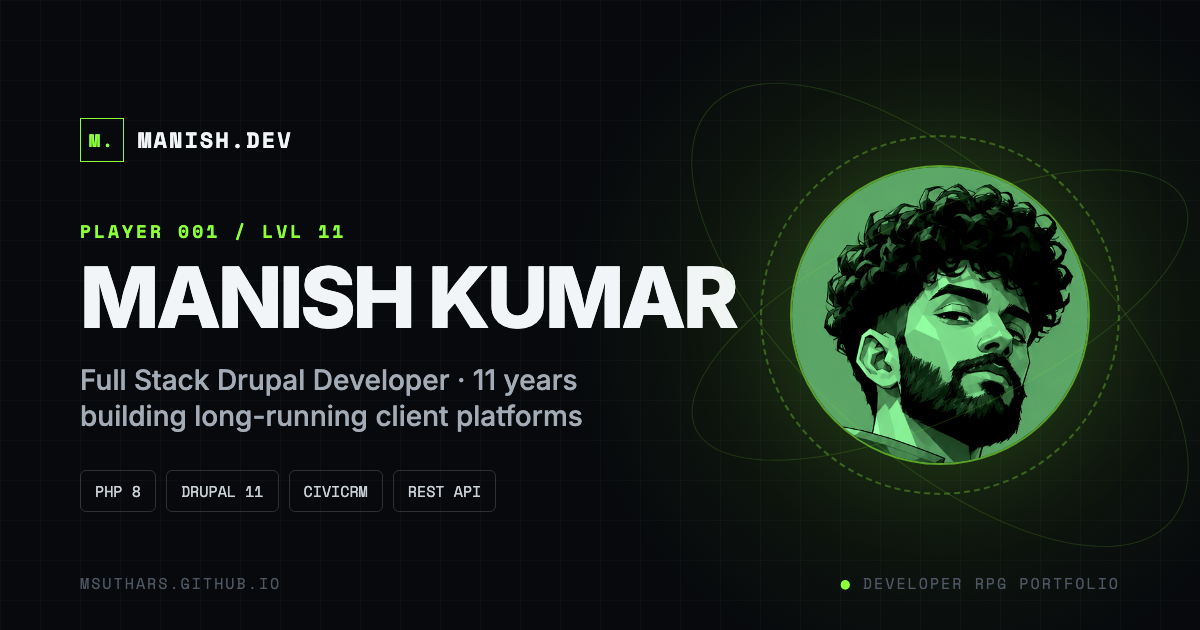
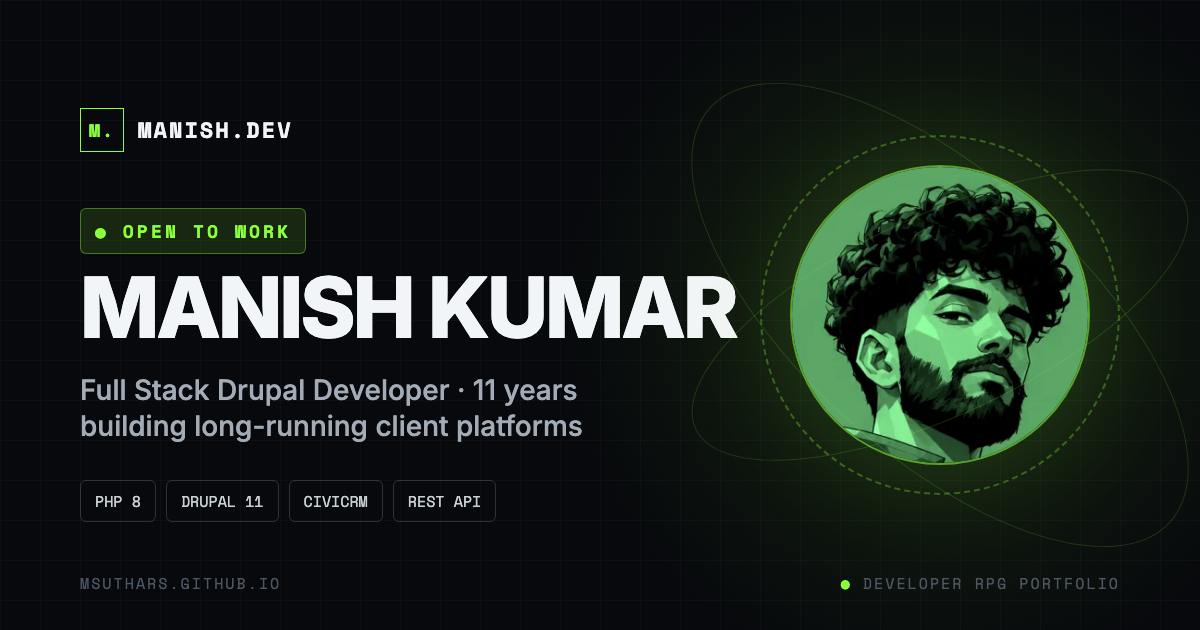
Updated the portfolio.

diff --git a/index.html b/index.html
@@ -3,7 +3,7 @@
 <head>
   <meta charset="UTF-8">
   <meta name="viewport" content="width=device-width, initial-scale=1.0">
-  <meta name="description" content="Manish Kumar — Full Stack Drupal Developer with 11 years of experience. RPG-style portfolio.">
+  <meta name="description" content="Manish Kumar — Full Stack Drupal Developer with 11 years of experience. Open to work. RPG-style portfolio.">
   <title>MANISH.DEV — Developer RPG</title>
   <link rel="canonical" href="https://msuthars.github.io/">
   <link rel="icon" href="/favicon.svg" type="image/svg+xml">
@@ -23,7 +23,7 @@
   <meta property="og:site_name" content="MANISH.DEV">
   <meta property="og:url" content="https://msuthars.github.io/">
   <meta property="og:title" content="Manish Kumar — Full Stack Drupal Developer">
-  <meta property="og:description" content="11 years building long-running client platforms with Drupal 6 → 11, PHP 8, CiviCRM and REST APIs. Explore the RPG-style portfolio.">
+  <meta property="og:description" content="11 years building long-running client platforms with Drupal 6 → 11, PHP 8, CiviCRM and REST APIs. Open to work — explore the RPG-style portfolio.">
   <meta property="og:image" content="https://msuthars.github.io/og-image.png">
   <meta property="og:image:width" content="1200">
   <meta property="og:image:height" content="630">
@@ -32,7 +32,7 @@
   <!-- Link preview (X / Twitter) -->
   <meta name="twitter:card" content="summary_large_image">
   <meta name="twitter:title" content="Manish Kumar — Full Stack Drupal Developer">
-  <meta name="twitter:description" content="11 years building long-running client platforms with Drupal 6 → 11, PHP 8, CiviCRM and REST APIs.">
+  <meta name="twitter:description" content="11 years building long-running client platforms with Drupal 6 → 11, PHP 8, CiviCRM and REST APIs. Open to work.">
   <meta name="twitter:image" content="https://msuthars.github.io/og-image.png">
   <meta name="twitter:image:alt" content="Manish Kumar — Full Stack Drupal Developer, MANISH.DEV portfolio">
   <link rel="preconnect" href="https://fonts.googleapis.com">

diff --git a/src/style.css b/src/style.css
@@ -177,6 +177,8 @@ button, .nav-item, .quest-card, .skill-node, .item-card, .map-node { -webkit-tap
   padding: 0 13px;
 }
 
+.topbar-actions > * { white-space: nowrap; }
+
 .brand, .top-player, .system-status {
   display: flex;
   align-items: center;
@@ -443,6 +445,20 @@ h1, h2, p { margin-top: 0; }
   gap: 8px;
   align-items: center;
 }
+
+.open-to-work {
+  color: var(--accent);
+  text-decoration: none;
+}
+
+.heading-status.open-to-work {
+  border-color: var(--accent-line);
+  background: var(--accent-soft);
+}
+
+a.open-to-work:hover { color: var(--text); }
+
+.party-status { margin-bottom: 22px; }
 
 .panel {
   border: 1px solid var(--border);
@@ -1231,6 +1247,7 @@ dialog::backdrop {
 @media (max-width: 460px) {
   .content { padding: 26px 14px 40px; }
   .topbar { height: 62px; }
+  .brand > div:not(.brand-icon) { display: none; }
   .app-shell { min-height: calc(100vh - 62px); }
   .sidebar { top: 62px; }
   .section-heading h1 { font-size: 34px; }

diff --git a/src/components/Contact.jsx b/src/components/Contact.jsx
@@ -5,6 +5,7 @@ export default function Contact({ active }) {
   return (
     <section id="contact" className={sectionClass(active)}>
       <div className="party-screen panel">
+        <span className="heading-status open-to-work party-status"><span className="status-dot"></span> OPEN TO WORK</span>
         <span className="eyebrow">FINAL QUEST / 007</span>
         <h1>JOIN THE PARTY</h1>
         <p>Have a Drupal project, an upgrade to survive or a technical challenge? Let's build something together.</p>

diff --git a/src/components/Topbar.jsx b/src/components/Topbar.jsx
@@ -21,10 +21,10 @@ export default function Topbar() {
       </div>
 
       <div className="topbar-actions">
-        <div className="system-status">
+        <a className="system-status open-to-work" href="#contact">
           <span className="status-dot"></span>
-          <span>ONLINE</span>
-        </div>
+          <span>OPEN TO WORK</span>
+        </a>
         <a className="btn topbar-resume" href={resume.page} target="_blank" rel="noopener">RESUME ↗</a>
       </div>
     </header>

diff --git a/src/components/Character.jsx b/src/components/Character.jsx
@@ -31,7 +31,7 @@ export default function Character({ active, started }) {
         title="CHARACTER"
         intro="Full stack Drupal developer building long-running client platforms since Drupal 6."
       >
-        <div className="heading-status"><span className="status-dot"></span> ACTIVE PLAYER</div>
+        <a className="heading-status open-to-work" href="#contact"><span className="status-dot"></span> OPEN TO WORK</a>
       </SectionHeading>
 
       <div className="character-grid">
